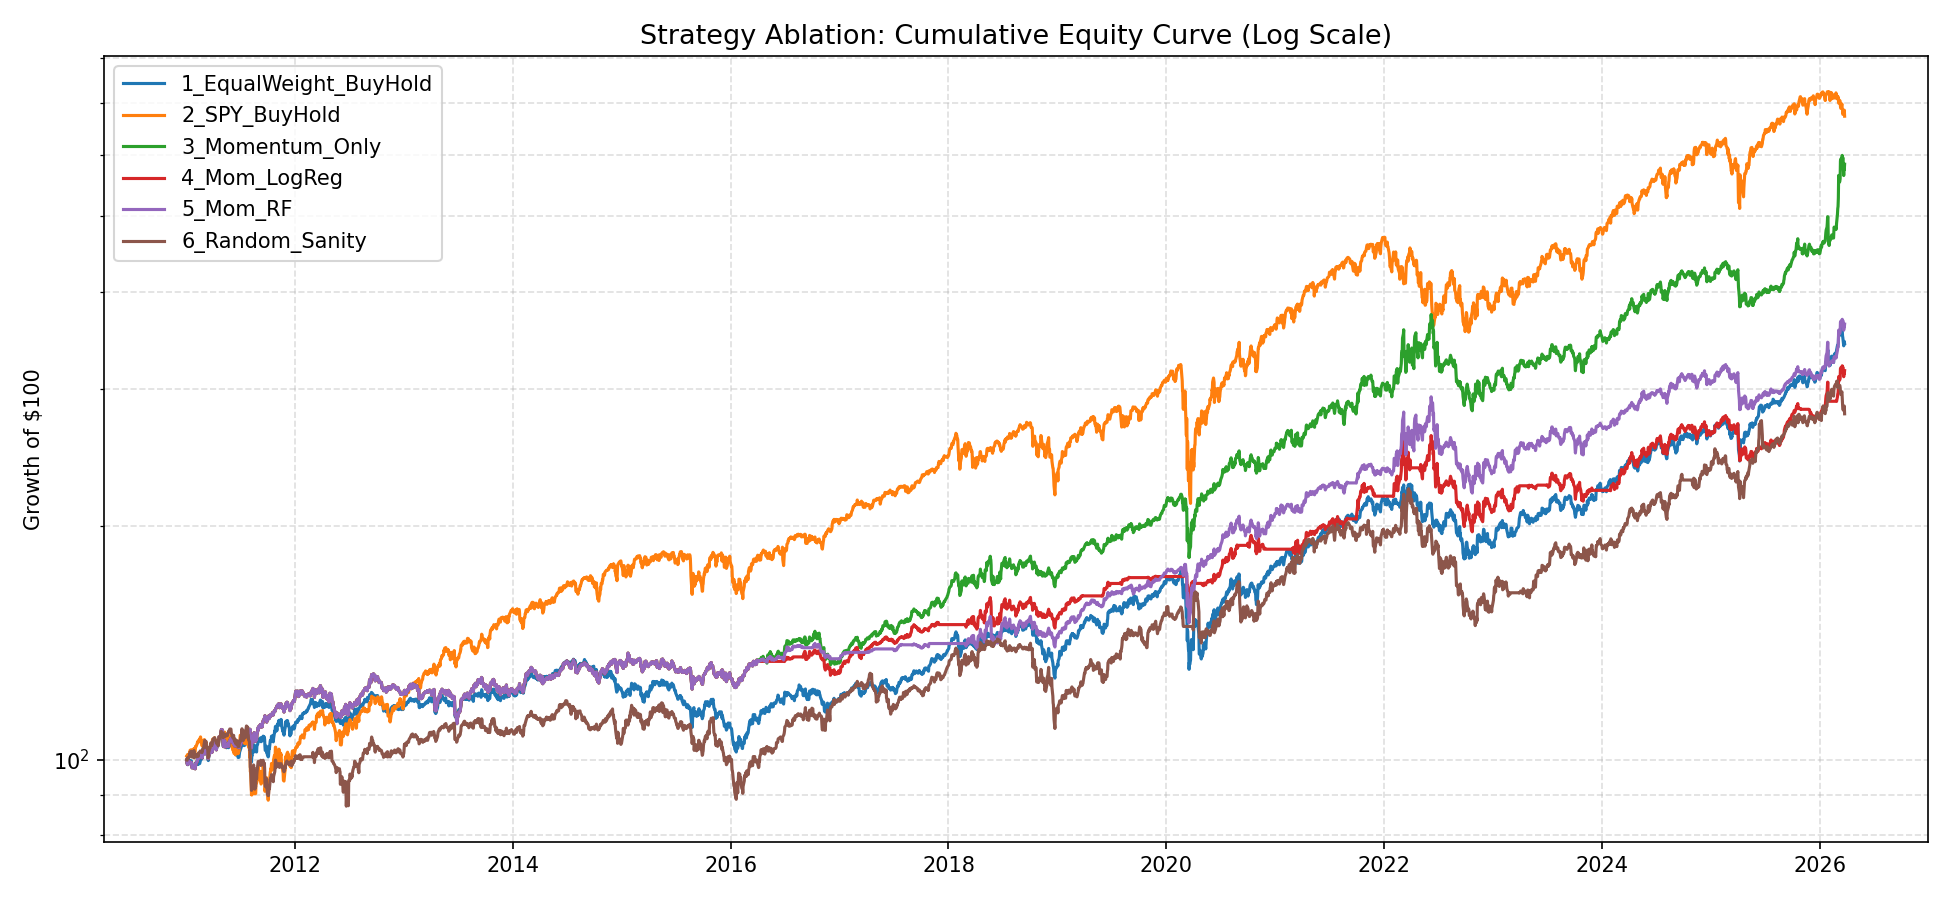
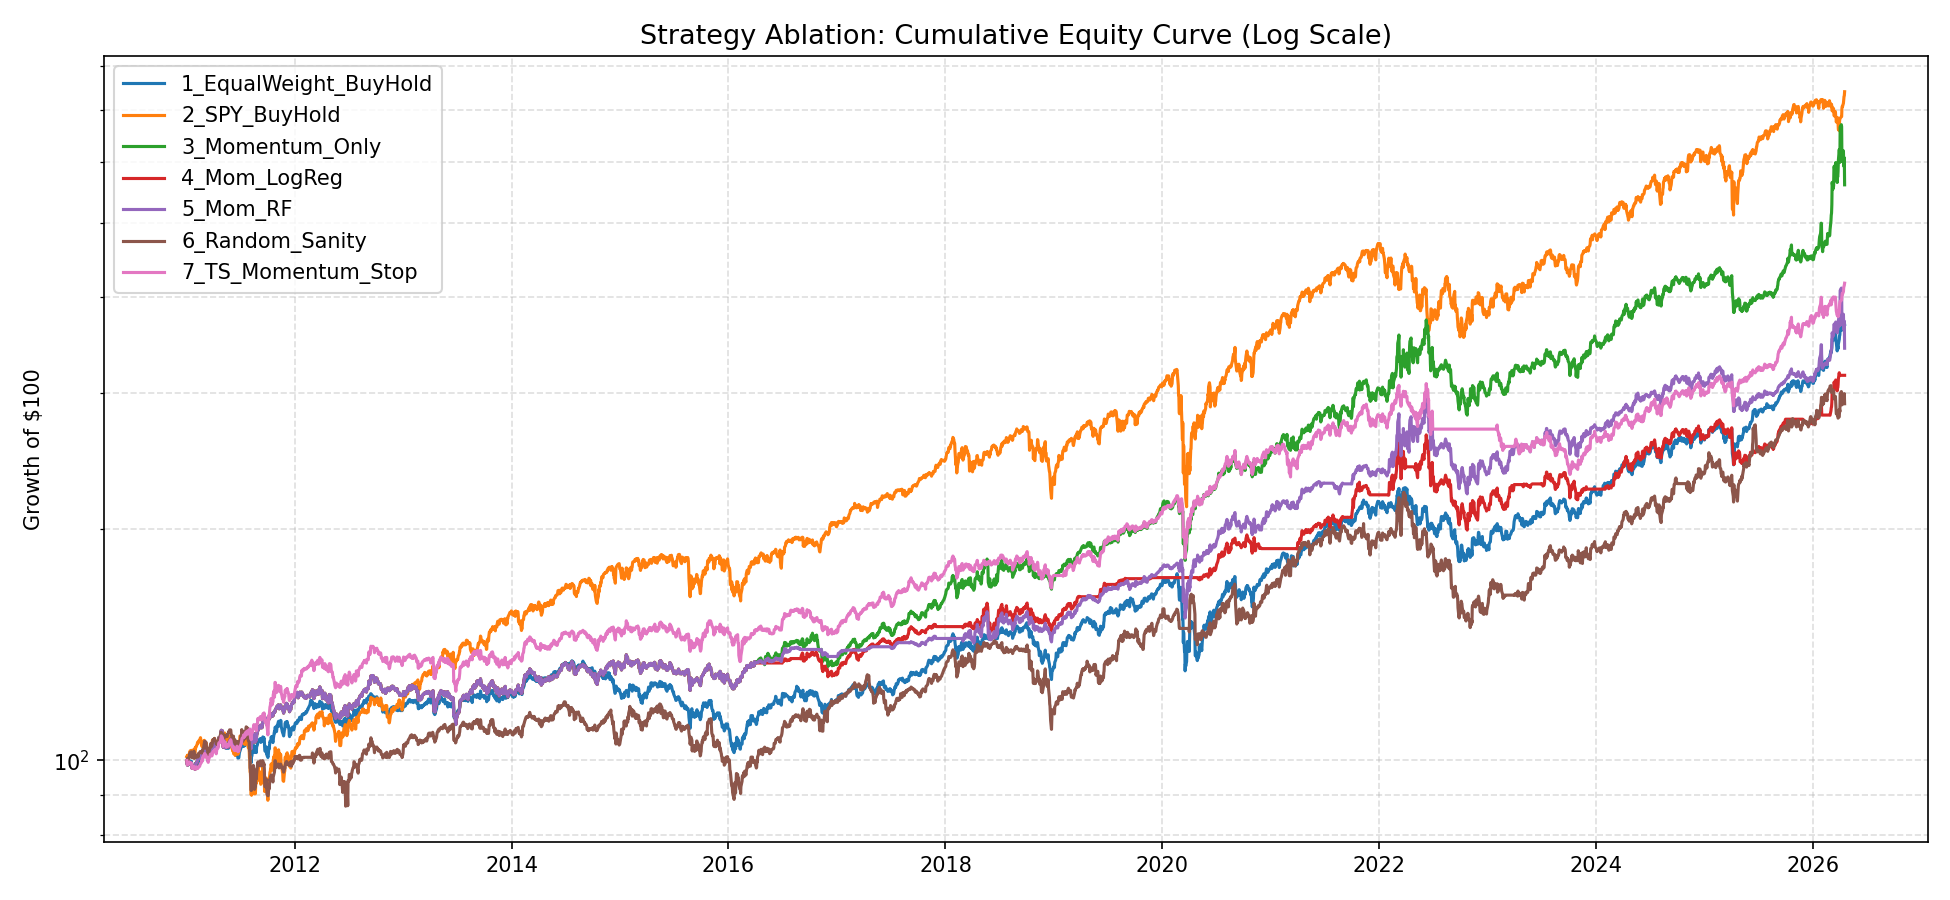
add as separate strategy from prev momentum

diff --git a/src/momentum_strategy.py b/src/momentum_strategy.py
@@ -88,45 +88,6 @@ def calculate_inverse_vol_weights(
     return weights
 
 
-def generate_timeseries_momentum_signals(
-    features: pd.DataFrame,
-    assets: list,
-    stop_loss: float = 0.10,
-) -> pd.DataFrame:
-    """
-    Time-series momentum: long if 12m return > 0 for each asset independently.
-    Unlike cross-sectional momentum, each asset is evaluated in absolute terms,
-    not relative to the other assets.
-
-    Stop-loss: if an asset is more than stop_loss% below its 252-day rolling high
-    (i.e., its dd_252d feature < -stop_loss), force that asset's signal to 0
-    regardless of the 12m return signal.
-
-    NOTE: features must be the same unshifted features_daily passed elsewhere;
-    the backtest engine applies the execution lag via shift(1).
-    """
-    mom_cols = [f"{a}_mom_252d" for a in assets]
-    dd_cols  = [f"{a}_dd_252d"  for a in assets]
-    missing  = [c for c in mom_cols + dd_cols if c not in features.columns]
-    if missing:
-        raise KeyError(f"Missing columns in features: {missing}")
-
-    base_signals = (features[mom_cols] > 0).astype(int)
-    base_signals.columns = assets
-
-    drawdowns = features[dd_cols].copy()
-    drawdowns.columns = assets
-    stopped_out = drawdowns < -stop_loss
-
-    signals = base_signals.where(~stopped_out, other=0)
-
-    stop_rate = stopped_out.any(axis=1).mean()
-    gross_exp  = signals.mean(axis=1).mean()
-    print(f"  TS Momentum (stop={stop_loss:.0%}): stop active on {stop_rate:.1%} of days. "
-          f"Mean gross exposure: {gross_exp:.1%}")
-    return signals
-
-
 def generate_equal_weight_baseline(index: pd.Index, assets: list) -> pd.DataFrame:
     """
     Passive equal-weight long-only benchmark.

diff --git a/src/ts_momentum_strategy.py b/src/ts_momentum_strategy.py
@@ -1,0 +1,41 @@
+import pandas as pd
+import numpy as np
+
+
+def generate_timeseries_momentum_signals(
+    features: pd.DataFrame,
+    assets: list,
+    stop_loss: float = 0.10,
+) -> pd.DataFrame:
+    """
+    Time-series momentum: long if 12m return > 0 for each asset independently.
+    Unlike cross-sectional momentum, each asset is evaluated in absolute terms,
+    not relative to the other assets.
+
+    Stop-loss: if an asset is more than stop_loss% below its 252-day rolling high
+    (i.e., its dd_252d feature < -stop_loss), force that asset's signal to 0
+    regardless of the 12m return signal.
+
+    NOTE: features must be the same unshifted features_daily passed elsewhere;
+    the backtest engine applies the execution lag via shift(1).
+    """
+    mom_cols = [f"{a}_mom_252d" for a in assets]
+    dd_cols  = [f"{a}_dd_252d"  for a in assets]
+    missing  = [c for c in mom_cols + dd_cols if c not in features.columns]
+    if missing:
+        raise KeyError(f"Missing columns in features: {missing}")
+
+    base_signals = (features[mom_cols] > 0).astype(int)
+    base_signals.columns = assets
+
+    drawdowns = features[dd_cols].copy()
+    drawdowns.columns = assets
+    stopped_out = drawdowns < -stop_loss
+
+    signals = base_signals.where(~stopped_out, other=0)
+
+    stop_rate = stopped_out.any(axis=1).mean()
+    gross_exp  = signals.mean(axis=1).mean()
+    print(f"  TS Momentum (stop={stop_loss:.0%}): stop active on {stop_rate:.1%} of days. "
+          f"Mean gross exposure: {gross_exp:.1%}")
+    return signals

diff --git a/src/main.py b/src/main.py
@@ -6,11 +6,11 @@ from data_loader import load_data
 from features import build_all_features
 from momentum_strategy import (
     generate_trend_signals,
-    generate_timeseries_momentum_signals,
     calculate_inverse_vol_weights,
     generate_equal_weight_baseline,
     generate_random_strategy,
 )
+from ts_momentum_strategy import generate_timeseries_momentum_signals
 from ml_model import create_labels, train_and_predict_walk_forward, get_feature_importance
 from backtest import run_backtest
 from evaluation import (
